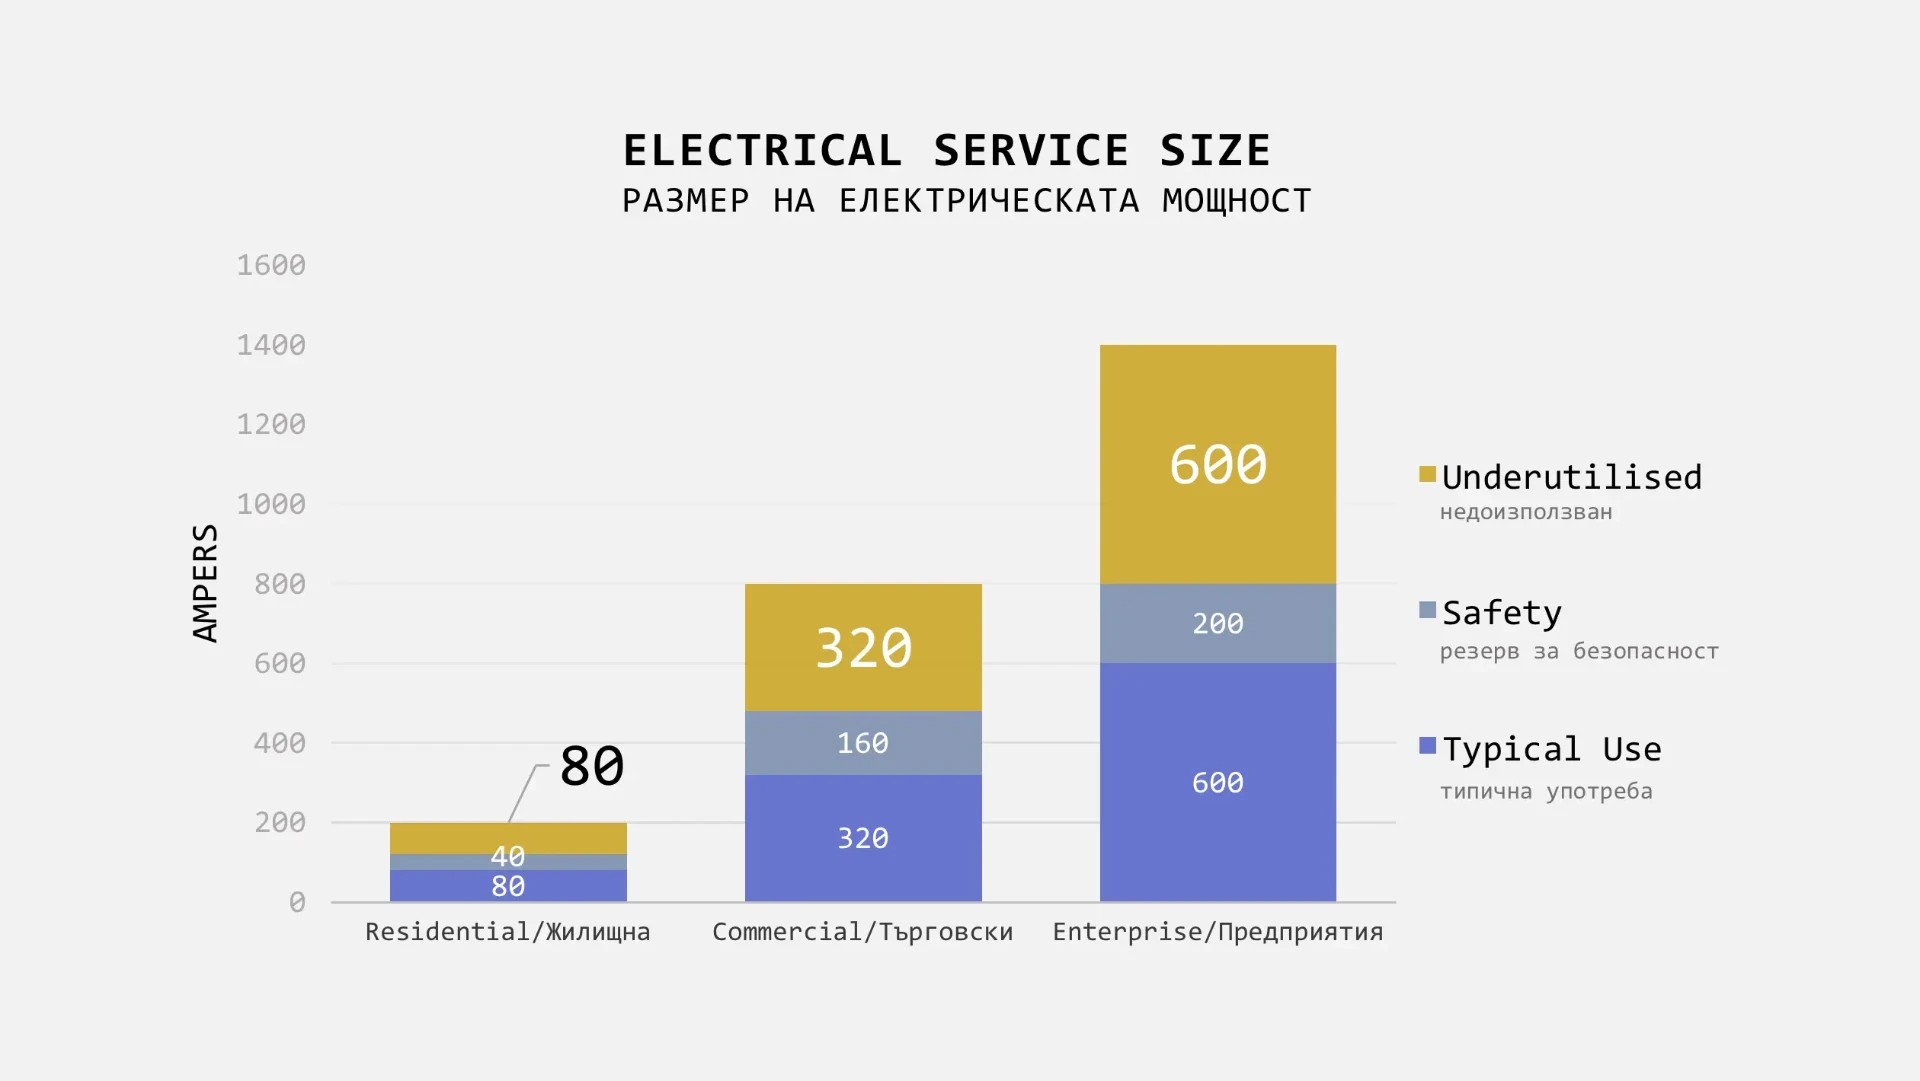
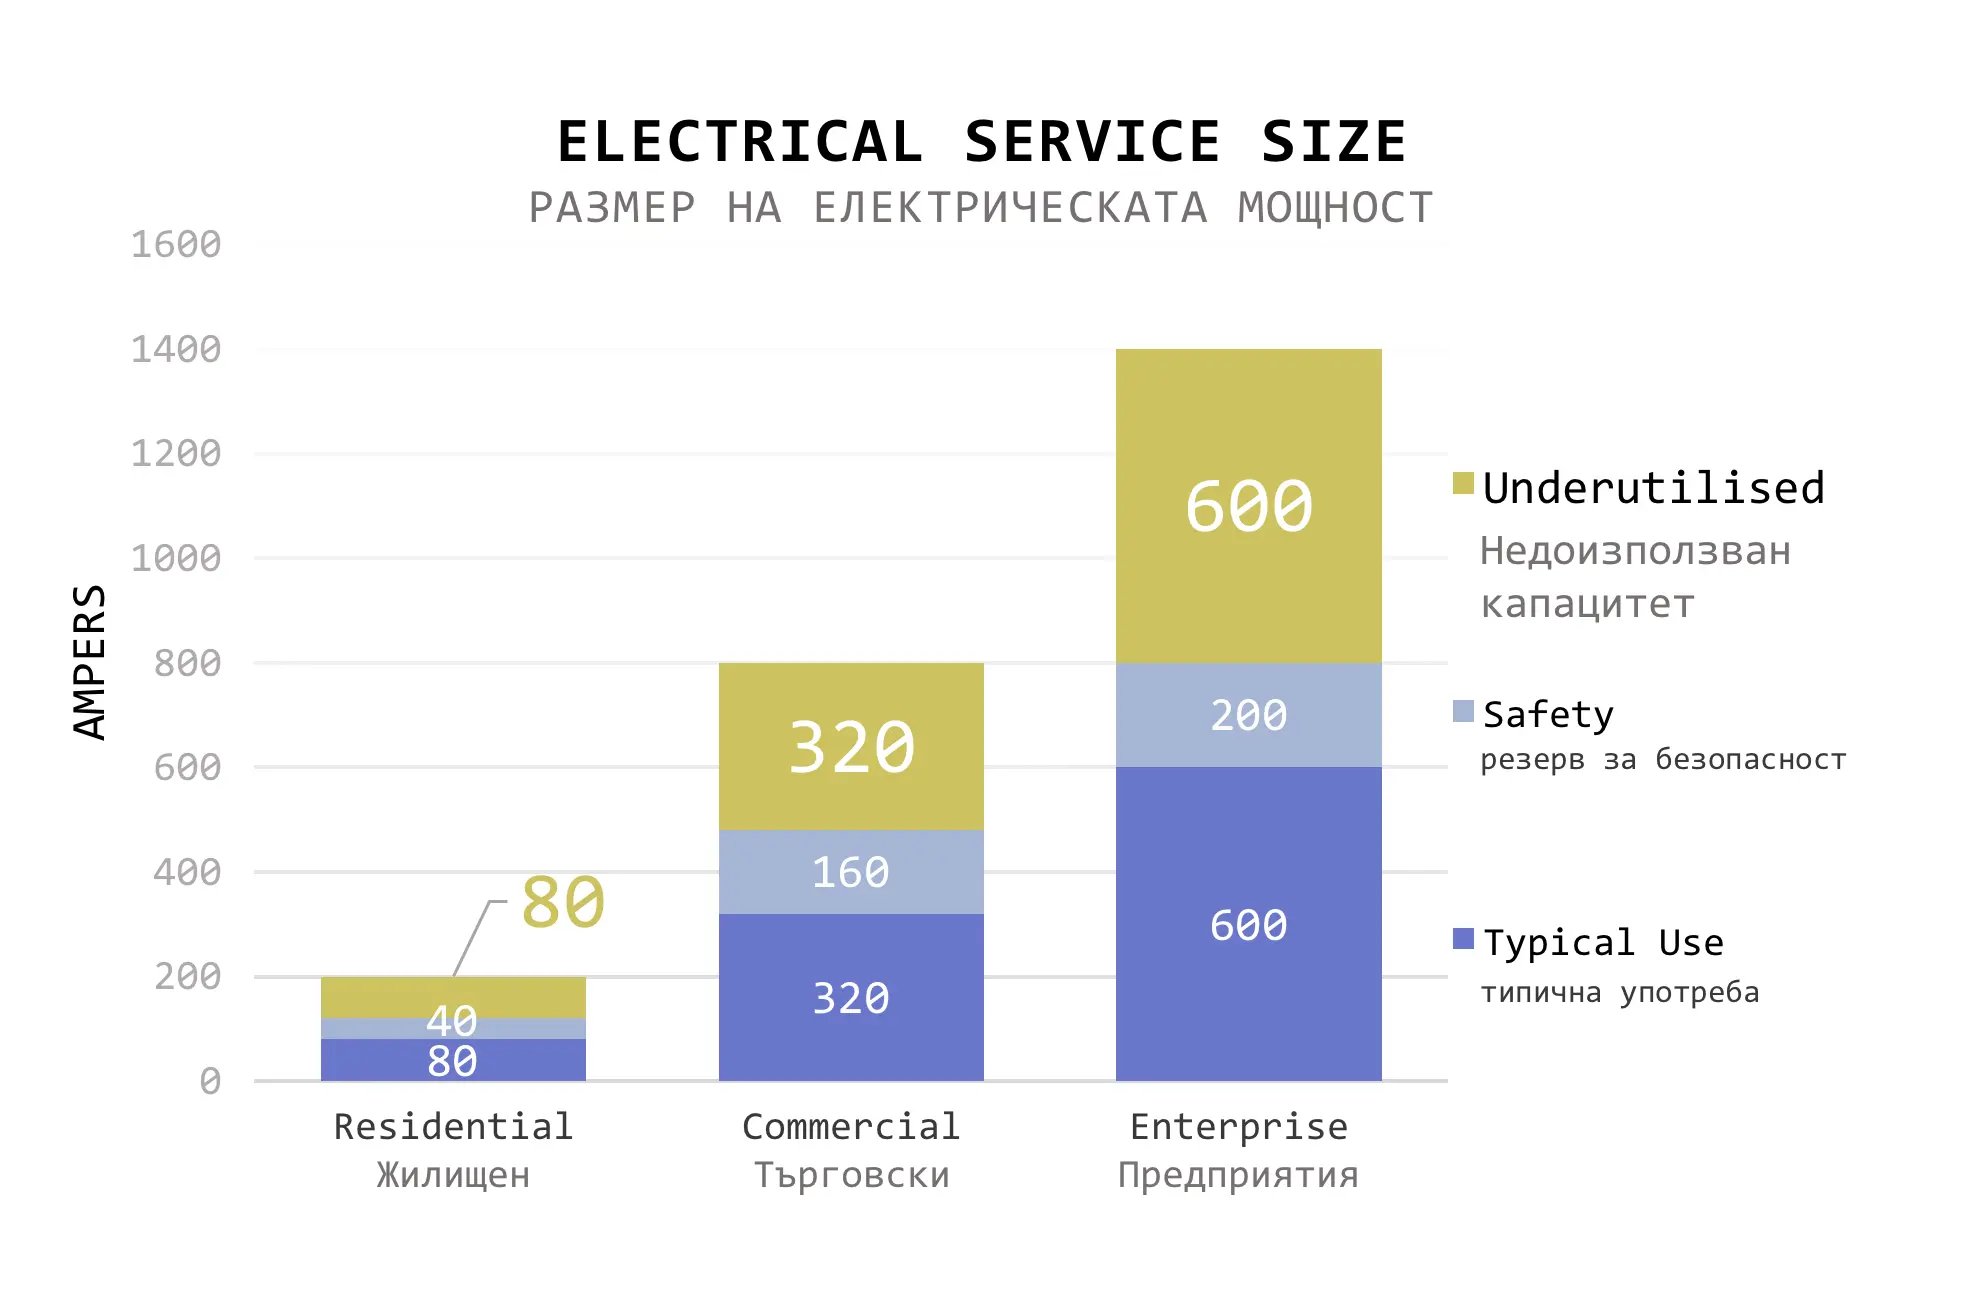
Update site content and assets

diff --git a/index.html b/index.html
@@ -5,6 +5,7 @@
 <meta name="viewport" content="width=device-width,initial-scale=1" />
 <title>БОС — Български Облачни Системи</title>
 <meta name="description" content="БОС — AI инфраструктура за периферни изчисления и услуги." />
+<link rel="icon" type="image/svg+xml" href="favicon.svg" />
 <style>
   *{box-sizing:border-box;margin:0;padding:0}
   html{scroll-behavior:smooth}
@@ -20,8 +21,12 @@
   .two{display:grid;grid-template-columns:1fr 1fr;gap:64px;align-items:center}
   @media(max-width:840px){.two{grid-template-columns:1fr;gap:32px}section{padding:64px 20px}}
 
+  /* Site logo top-left */
+  .site-logo{position:absolute;top:24px;left:24px;z-index:10}
+  .site-logo img{height:44px;width:auto}
+
   /* 1. Hero */
-  .hero{min-height:92vh;display:flex;align-items:center;color:#fff;
+  .hero{position:relative;min-height:92vh;display:flex;align-items:center;color:#fff;
     background:linear-gradient(rgba(0,0,0,.55),rgba(0,0,0,.65)),url('images/hero.webp') center/cover no-repeat}
   .hero .wrap{max-width:1180px}
   .hero h1{max-width:900px}
@@ -32,19 +37,25 @@
   .s-black{background:#000;color:#fff;text-align:center}
   .s-black .big{font-size:clamp(2.5rem,7vw,5rem);font-weight:800;margin-top:40px;letter-spacing:-.02em}
   .s-black .body{max-width:880px;margin:0 auto}
-  /* 4 White */
   /* 5 Black */
   .s-dark{background:#000;color:#fff}
   /* 6 White center */
   .s-center{text-align:center}
   .s-center .body{max-width:880px;margin:0 auto 24px}
   .s-center .punch{font-size:clamp(1.5rem,3vw,2.25rem);font-weight:700;margin-top:40px;max-width:900px;margin-left:auto;margin-right:auto}
-  /* 7 White full image */
-  .full-img{margin-bottom:48px;border:1px solid #eee}
-  /* 8 CTA */
-  .cta{background:#000;color:#fff;text-align:center;padding:140px 24px}
+
+  /* 7 Benefits list */
+  .benefit-list{list-style:none;padding:0;margin:40px auto 0;max-width:880px;text-align:left}
+  .benefit-list li{font-size:clamp(1.25rem,2.4vw,1.75rem);font-weight:700;padding:20px 0;border-top:1px solid #333;display:flex;gap:20px;align-items:baseline}
+  .benefit-list li:last-child{border-bottom:1px solid #333}
+  .benefit-list .num{opacity:.5;font-variant-numeric:tabular-nums}
+
+  /* 8 CTA with bg image */
+  .cta{position:relative;color:#fff;text-align:center;padding:160px 24px;
+    background:linear-gradient(rgba(0,0,0,.6),rgba(0,0,0,.7)),url('images/contact.webp') center/cover no-repeat}
   .cta h2{margin:0}
-  .cta .small{margin-top:16px;opacity:.6;font-size:.95rem;letter-spacing:.15em;text-transform:uppercase}
+  .cta .small{margin-top:16px;opacity:.7;font-size:.95rem;letter-spacing:.15em;text-transform:uppercase}
+  .cta .cta-logo{height:56px;width:auto;margin:0 auto 32px}
   /* 9 Footer */
   footer{background:#000;color:#fff;border-top:1px solid #222;padding:32px 24px;text-align:center;font-size:.85rem;letter-spacing:.05em}
 
@@ -55,6 +66,7 @@
 
 <!-- 1 Hero -->
 <section class="hero">
+  <a class="site-logo" href="#"><img src="images/logo.png" alt="БОС — Български Облачни Системи" /></a>
   <div class="wrap">
     <div class="eyebrow">ПРЕДСТАВЯМЕ ВИ БОС</div>
     <h1>AI инфраструктура за периферни изчисления и услуги</h1>
@@ -105,27 +117,34 @@
 </section>
 
 <!-- 6 Node to fleet -->
-<section class="s-white s-center">
-  <div class="wrap">
-    <h2>От възел до флотилия</h2>
-    <p class="body">БОС МИНИ е специално разработен за лесен монтаж на открито или закрито. Всеки възел е проектиран да бъде самостоятелен, тих, модулен, лесен за обслужване и сигурен.</p>
-    <p class="body">БОС ОБЛАК е система от възли, които работят заедно като флотилия, координирана чрез БОС SOL (Secure Orchestration Layer). Така много независими възли могат да се държат като кохерентен облак, изпълнявайки AI inference работни натоварвания близо до крайните потребители, намалявайки латентността.</p>
-    <div class="punch">Това позволява на БОС Облак да координира капацитет в мегаватов мащаб.</div>
+<section class="s-white">
+  <div class="wrap two">
+    <div>
+      <h2>От възел до флотилия</h2>
+      <p>БОС МИНИ е специално разработен за лесен монтаж на открито или закрито. Всеки възел е проектиран да бъде самостоятелен, тих, модулен, лесен за обслужване и сигурен.</p>
+      <p>БОС ОБЛАК е система от възли, които работят заедно като флотилия, координирана чрез БОС SOL (Secure Orchestration Layer). Така много независими възли могат да се държат като кохерентен облак, изпълнявайки AI inference работни натоварвания близо до крайните потребители, намалявайки латентността.</p>
+      <p style="font-weight:700;margin-top:16px">Това позволява на БОС Облак да координира капацитет в мегаватов мащаб.</p>
+    </div>
+    <div class="img"><img src="images/node-to-fleet.webp" alt="БОС от възел до флотилия" /></div>
   </div>
 </section>
 
-<!-- 7 Dual benefits -->
+<!-- 7 Dual benefits (text only) -->
 <section class="s-black">
   <div class="wrap">
-    <img class="full-img" src="images/benefits.webp" alt="Двойни предимства" />
-    <h2 style="text-align:center">Двойни предимства за домакините</h2>
-    <p class="body" style="max-width:980px;margin:0 auto">Мини центровете за данни с изкуствен интелект предлагат двойно предимство за предприятията и фирмите, които избират да станат колокатори. Първо, те получават директен достъп до локализирана инфраструктура с изкуствен интелект, което им позволява да изграждат и внедряват свои собствени приложения с изкуствен интелект с ниска латентност — от гласови агенти и компютърно зрение до автоматизация и частни работни натоварвания с изкуствен интелект — без да разчитат изцяло на централизирани доставчици на облачни услуги. Второ, те могат да монетизират неизползвания изчислителен капацитет, като позволяват на други клиенти да изпълняват работни натоварвания с изкуствен интелект на същата инфраструктура, като по този начин ефективно трансформират своите съоръжения в генериращи приходи центрове за изкуствен интелект, като същевременно максимизират използването на захранване, охлаждане и мрежови активи.</p>
+    <h2>Добавена стойност и предимства за пилотни клиенти</h2>
+    <p class="body">Мини AI центровете за данни предлагат двойна полза за бизнеса ви. От една страна, получавате достъп до периферна AI инфраструктура за бързо и сигурно внедряване на собствени приложения — като гласови агенти, компютърно зрение и автоматизация. От друга, можете да генерирате допълнителни приходи отдавайки неизползвания изчислителен капацитет на други предприятия нуждаещи се от AI натоварвания.</p>
+    <ol class="benefit-list">
+      <li><span class="num">01</span><span>Изградете свои собствени приложения с изкуствен интелект</span></li>
+      <li><span class="num">02</span><span>Монетизирайте излишния капацитет на изкуствения интелект</span></li>
+    </ol>
   </div>
 </section>
 
 <!-- 8 CTA -->
 <section class="cta">
   <div class="wrap">
+    <img class="cta-logo" src="images/logo.png" alt="БОС" />
     <h2>Свържете се с нас</h2>
     <div class="small">скоро</div>
   </div>
